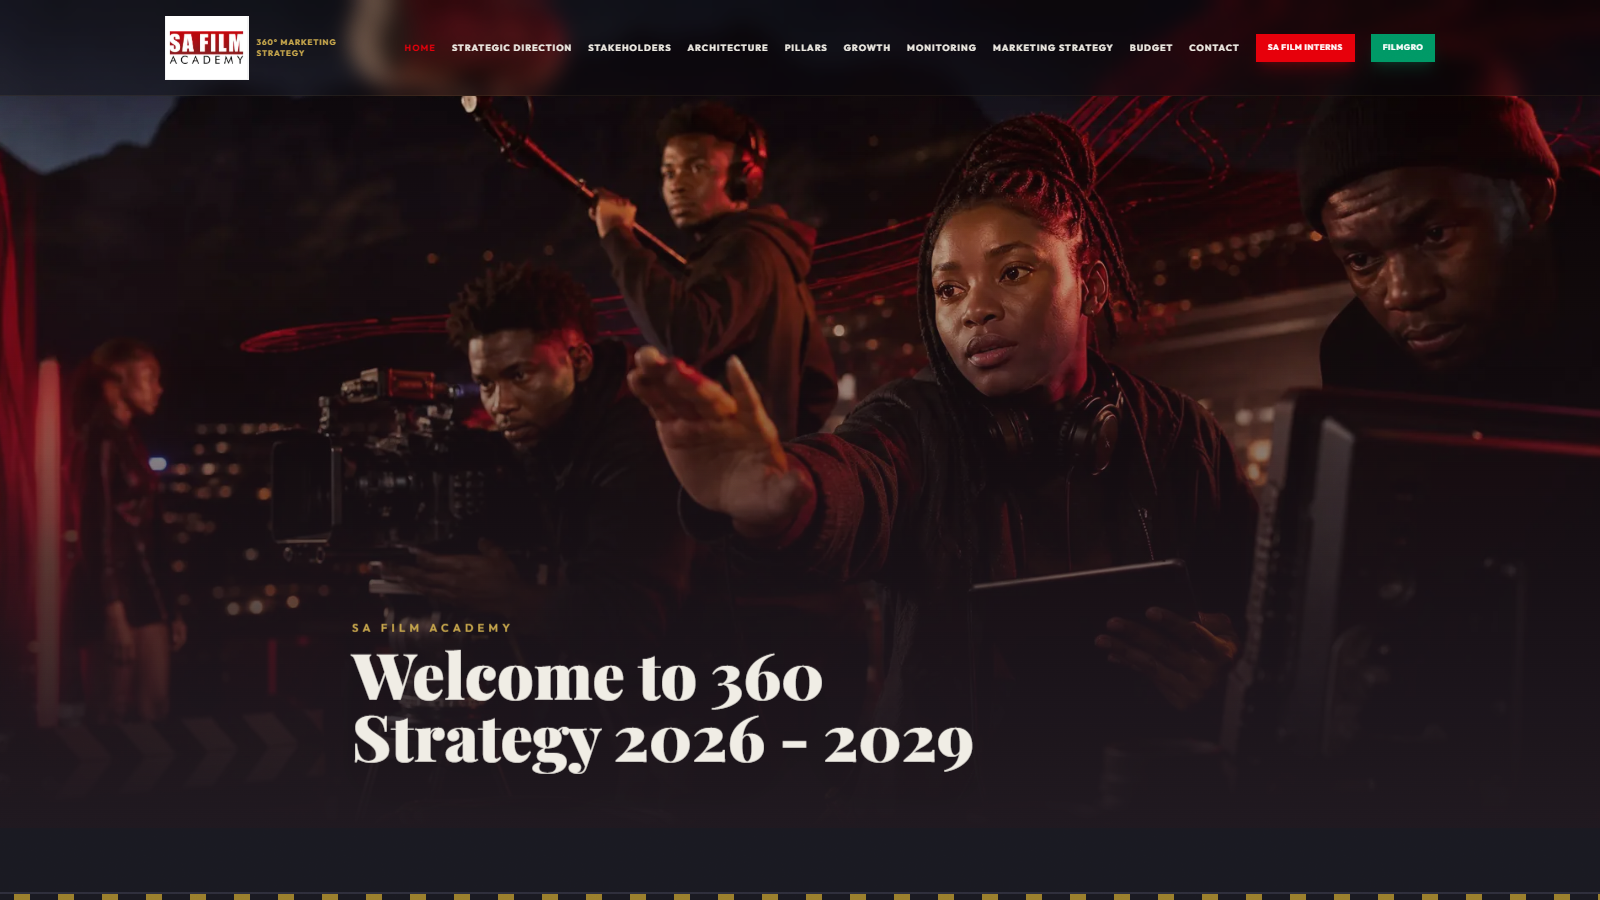
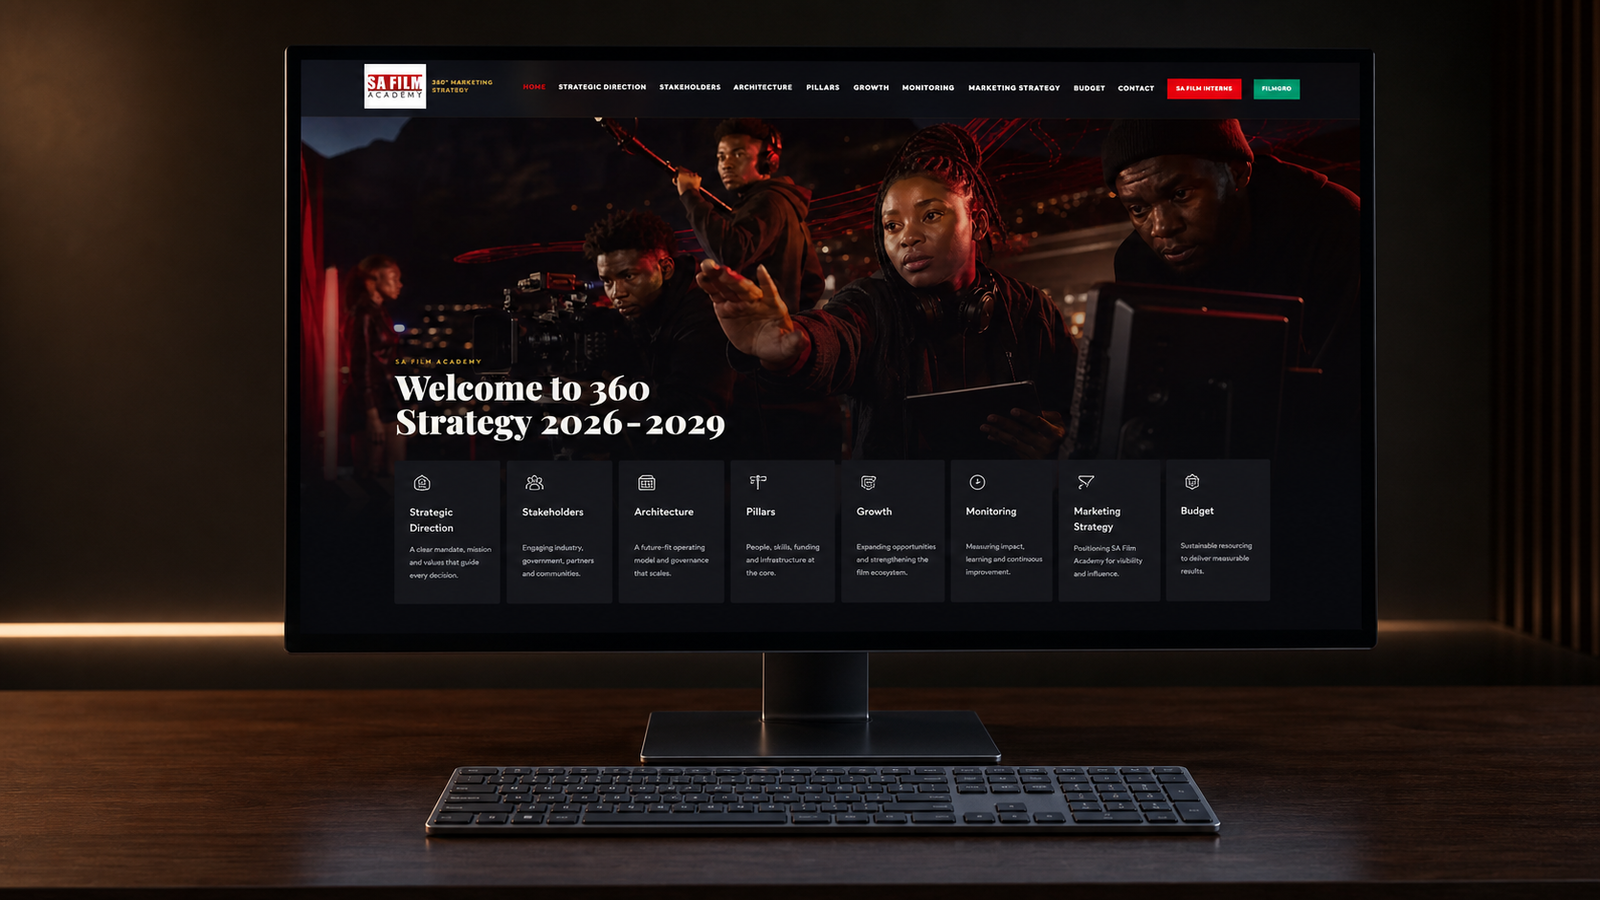
docs: refine recruiter visual presentation

diff --git a/docs/verification.md b/docs/verification.md
@@ -1,8 +1,7 @@
 # Public verification record
 
-- Hero image: 1600 × 900 PNG.
-- Live-interface image: 1600 × 900 PNG.
+- Hero visual: 1600 × 900 PNG.
+- Interface visual: 1600 × 900 PNG.
 - Social preview: 1280 × 640 PNG.
-- Screenshot source: the public SAFA ProMax presentation deployment.
-- Review performed signed out in a fresh browser context.
-- No credentials, private records or internal implementation files are included here.
+- Visual direction references the public SAFA ProMax presentation interface.
+- No login surface, approval language, credentials, private records or internal implementation files are included here.

diff --git a/README.md b/README.md
@@ -41,7 +41,7 @@ The implementation repository remains private. This repository is a curated port
 
 [Open the public SAFA ProMax presentation](https://safa-promaxv2.vercel.app/)
 
-The screenshot below is a privacy-safe capture of the public presentation surface:
+The visual below is a generated recruiter-facing representation of the public presentation surface:
 
 ![Privacy-safe screenshot of the public SAFA ProMax presentation](docs/assets/safa-promax-live.png)
 
